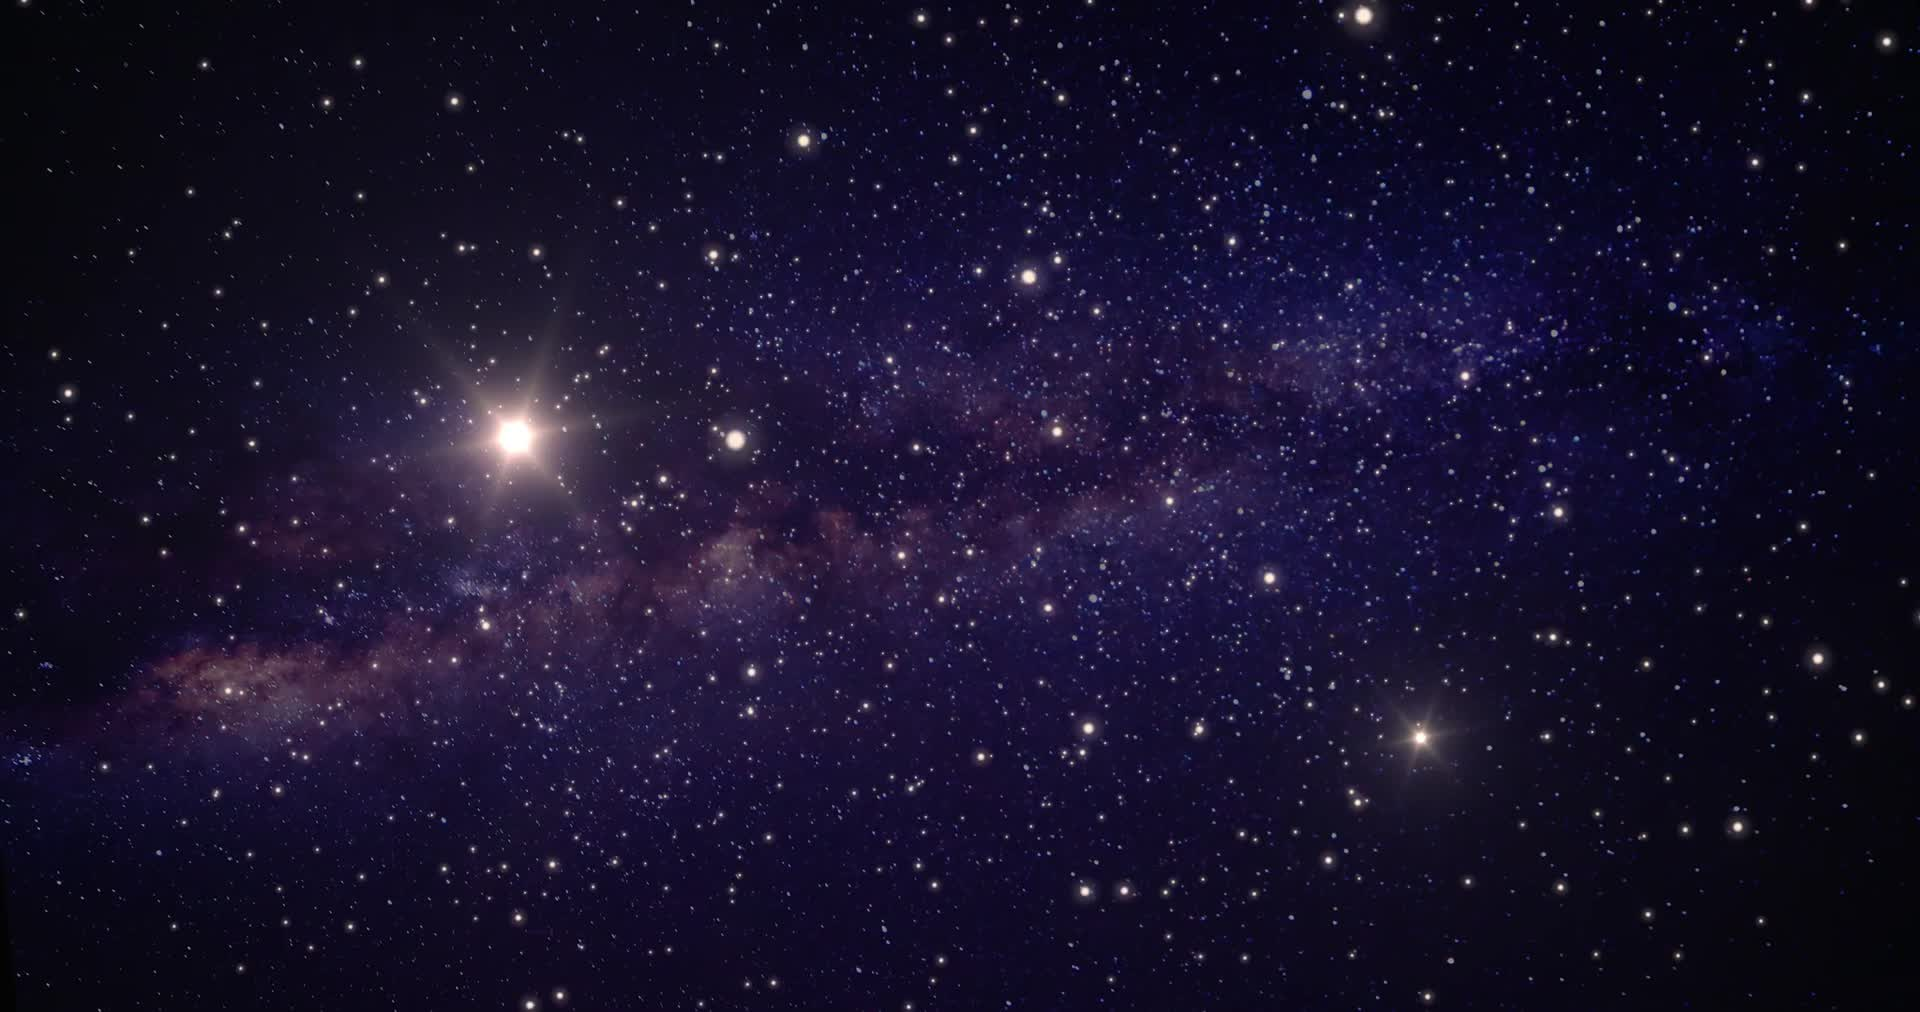
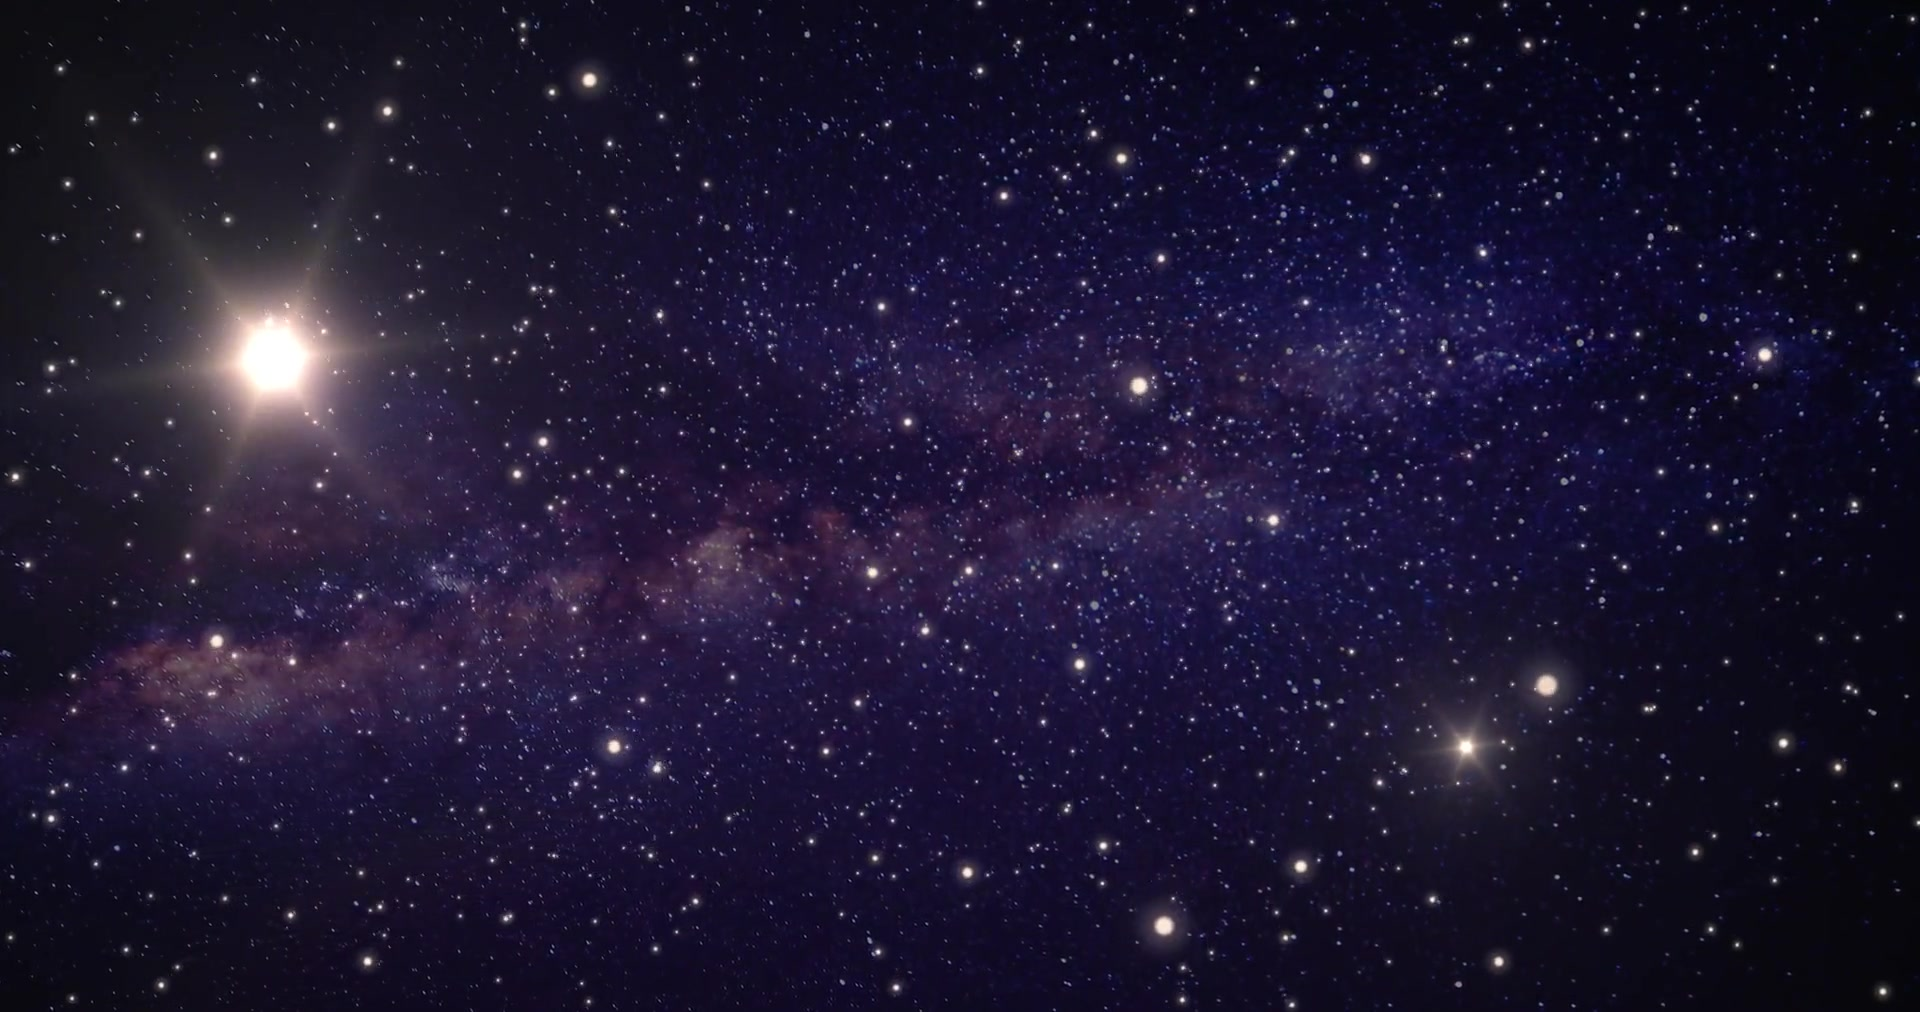
Use galaxy video frame as fallback poster for low-power mode
On iOS low-power mode, video autoplay is blocked and the video element
gets hidden. Previously this revealed only a solid #050a1a background.
Now the galaxy-poster.jpg (extracted from galaxy.mp4) shows as a
background image behind the video, giving a proper galaxy appearance
even when video can't play.

diff --git a/src/app/page.tsx b/src/app/page.tsx
@@ -247,14 +247,14 @@ export default function Home() {
 
   const heroVideo = useMemo(() => (
     <>
-      <div className="absolute inset-0 w-full h-full" style={{ background: "#050a1a" }} />
+      <div className="absolute inset-0 w-full h-full" style={{ background: `#050a1a url('/videos/galaxy-poster.jpg') center/cover no-repeat` }} />
       <video
         ref={videoRef}
         autoPlay
         loop
         muted
         playsInline
-        poster="/videos/hero-bg-2-poster.jpg"
+        poster="/videos/galaxy-poster.jpg"
         className="absolute inset-0 w-full h-full object-cover"
         aria-hidden="true"
         onError={(e) => { (e.currentTarget as HTMLVideoElement).style.display = "none"; }}
@@ -291,14 +291,14 @@ export default function Home() {
         >
           {backdropImage === "galaxy" ? (
             <>
-              <div className="absolute inset-0" style={{ background: "#050a1a" }} />
+              <div className="absolute inset-0" style={{ background: `#050a1a url('/videos/galaxy-poster.jpg') center/cover no-repeat` }} />
               <video
                 ref={backdropVideoRef}
                 autoPlay
                 loop
                 muted
                 playsInline
-                poster="/videos/hero-bg-2-poster.jpg"
+                poster="/videos/galaxy-poster.jpg"
                 className="absolute inset-0 w-full h-full object-cover"
                 aria-hidden="true"
               >
